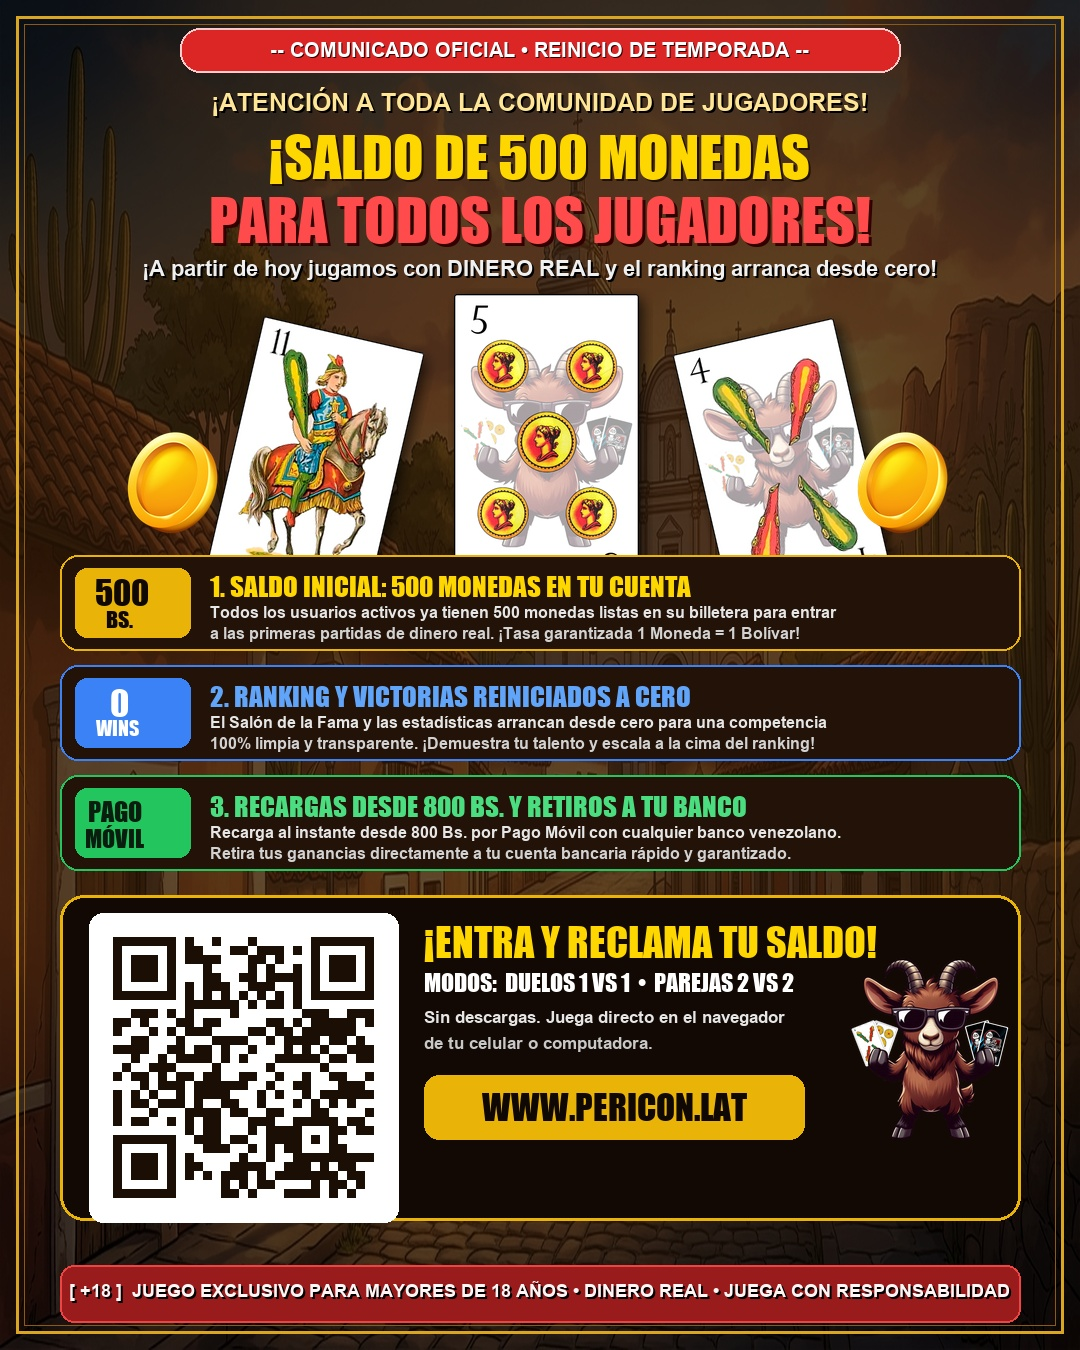
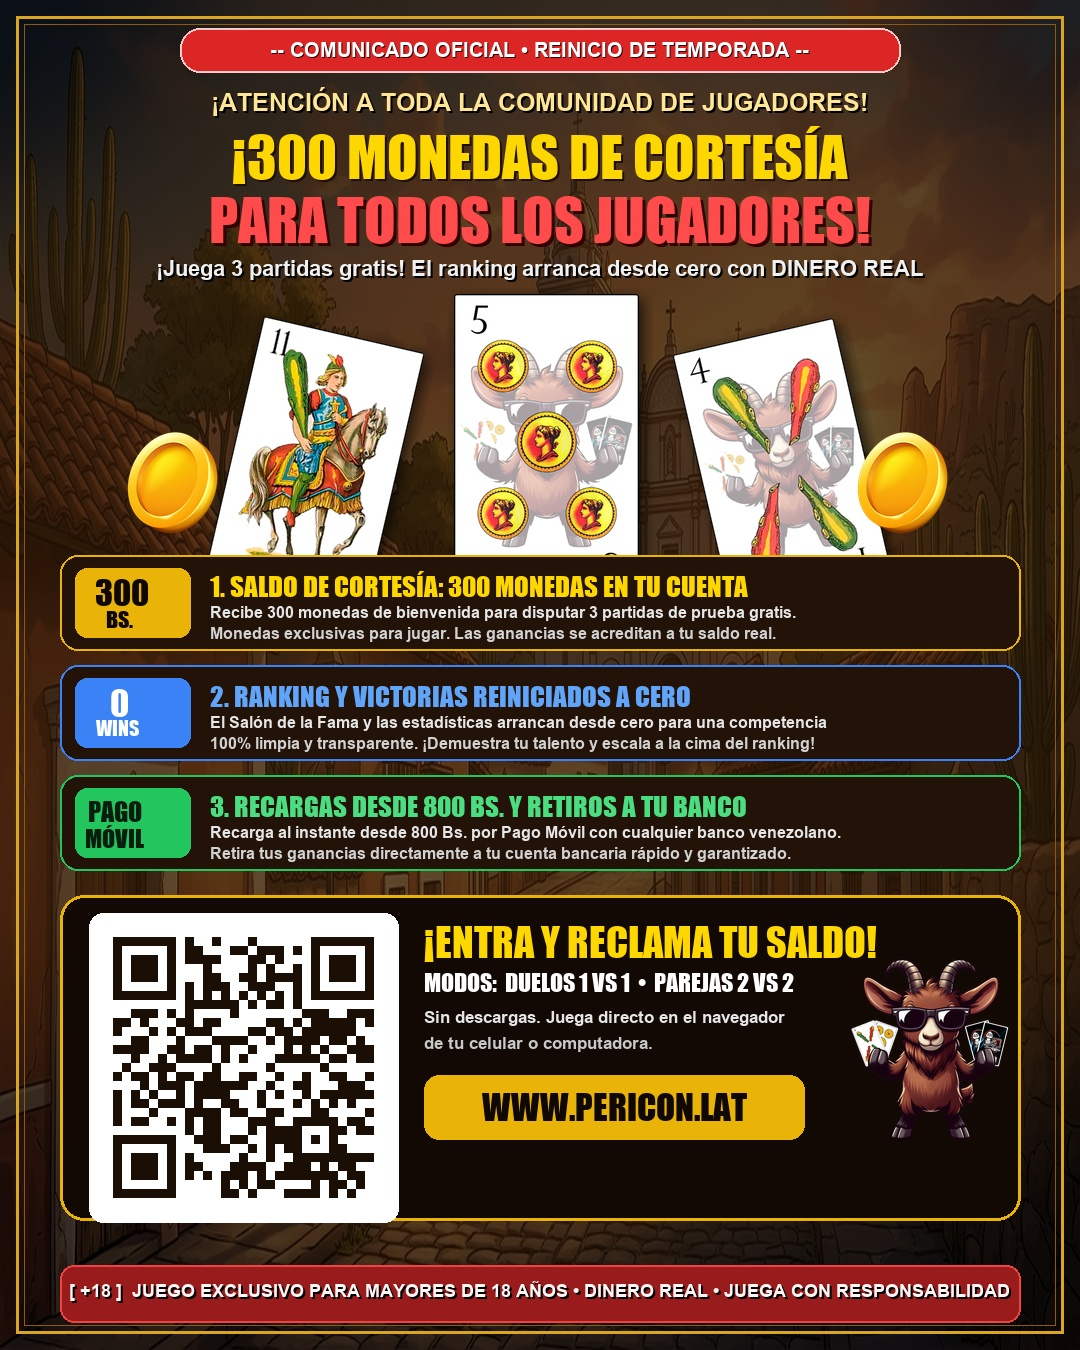
feat(admin): actualizar reinicio a 300 monedas de cortesia y nuevo flyer oficial

Changed region(s): [[0.1833, 0.4044, 0.7639, 0.4978], [0.2139, 0.0933, 0.7944, 0.1556], [0.1222, 0.1867, 0.8861, 0.2178]]

diff --git a/src/app/admin/page.tsx b/src/app/admin/page.tsx
@@ -602,9 +602,9 @@ export default function AdminPage() {
     }
   };
 
-  // Reiniciar Temporada: 500 Monedas, Ranking en 0 y Victorias en 0
+  // Reiniciar Temporada: 300 Monedas de Cortesía, Ranking en 0 y Victorias en 0
   const handleResetSeasonStats = async () => {
-    if (!window.confirm("⚠ ¿Estás completamente seguro de reiniciar a TODOS los usuarios a 500 monedas y poner ranking y victorias en CERO?\n\nEsta acción iniciará oficialmente la era de Dinero Real y publicará el comunicado global.")) {
+    if (!window.confirm("⚠ ¿Estás completamente seguro de reiniciar a TODOS los usuarios a 300 monedas de cortesía y poner ranking y victorias en CERO?\n\nEsta acción iniciará oficialmente la era de Dinero Real y publicará el comunicado global.")) {
       return;
     }
     setLoading(true);
@@ -612,7 +612,7 @@ export default function AdminPage() {
       const res = await adminFetch(`${apiUrl}/api/admin/reset-season-stats`, {
         method: "POST",
         headers: { "Content-Type": "application/json" },
-        body: JSON.stringify({ coins: 500, clearMatchHistory: false }),
+        body: JSON.stringify({ coins: 300, clearMatchHistory: false }),
       });
       const data = await res.json();
       if (res.ok) {
@@ -1709,10 +1709,10 @@ export default function AdminPage() {
                 <button
                   onClick={handleResetSeasonStats}
                   className="flex items-center gap-1.5 px-3 py-2 rounded-xl bg-gradient-to-r from-amber-600 to-yellow-500 hover:from-amber-500 hover:to-yellow-400 text-black font-extrabold text-xs transition shadow-lg border border-yellow-300 active:scale-95"
-                  title="Reiniciar monedas a 500 y ranking a cero para todos los usuarios (Inicio de Dinero Real)"
+                  title="Reiniciar monedas a 300 de cortesía y ranking a cero para todos los usuarios (Inicio de Dinero Real)"
                 >
                   <span>🔄</span>
-                  <span>Reiniciar Temporada (500 Monedas)</span>
+                  <span>Reiniciar Temporada (300 Monedas)</span>
                 </button>
               </div>
             </div>
